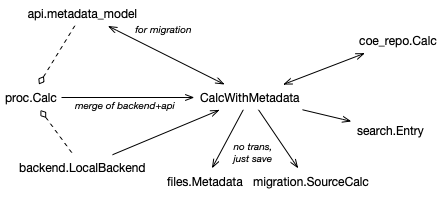
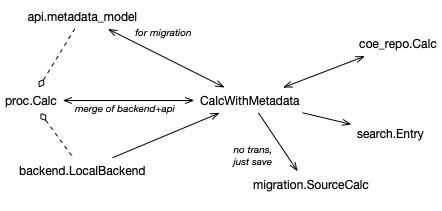
Updates to the documentation.

diff --git a/gui/src/components/Navigation.js b/gui/src/components/Navigation.js
@@ -24,7 +24,7 @@ import MenuIcon from '@material-ui/icons/Menu'
 import { Link, withRouter } from 'react-router-dom'
 import { compose } from 'recompose'
 import { MuiThemeProvider, IconButton, Checkbox, FormLabel, LinearProgress } from '@material-ui/core'
-import { genTheme, repoTheme, archiveTheme, encTheme, analyticsTheme } from '../config'
+import { genTheme, repoTheme, archiveTheme, encTheme, analyticsTheme, apiBase } from '../config'
 import classNames from 'classnames'
 import { HelpContext } from './help'
 import LoginLogout from './LoginLogout'
@@ -246,7 +246,7 @@ class Navigation extends React.Component {
             </ListItemIcon>
             <ListItemText inset primary="Profil"/>
           </MenuItem> */}
-          <MenuItem className={classes.menuItem} component={Link} to="/docs" selected={ pathname === '/docs' }>
+          <MenuItem className={classes.menuItem} target="docs" component={'a'} href={`${apiBase}/docs/index.html`} selected={ pathname === '/docs' }>
             <ListItemIcon>
               <DocumentationIcon />
             </ListItemIcon>

diff --git a/gui/src/pace.css b/gui/src/pace.css
@@ -5,23 +5,6 @@
   -webkit-user-select: none;
   -moz-user-select: none;
   user-select: none;
-
-  z-index: 2000;
-  position: fixed;
-  top: 0;
-  left: 0;
-  right: 0;
-  bottom: 0;
-  height: 100vh;
-  width: 100%;
-  background: #fff;
-  overflow: hidden;
-
-  background-image: url("nomad-cube.png");
-  background-repeat: no-repeat;
-  background-attachment: fixed;
-  background-position: center;
-  background-size: 64px 64px;
 }
 
 .pace-inactive {
@@ -29,7 +12,7 @@
 }
 
 .pace .pace-progress {
-  background: #673ab7;
+  background: #feb60d;
   position: fixed;
   z-index: 2000;
   top: 0;

diff --git a/gui/public/index.html b/gui/public/index.html
@@ -3,7 +3,7 @@
   <head>
     <script>
       window.paceOptions = {
-        restartOnPushState: false
+        restartOnPushState: true
       }
     </script>
     <script src="https://unpkg.com/pace-js@1.0.2/pace.min.js"></script>

diff --git a/docs/.static/css/custom.css b/docs/.static/css/custom.css
@@ -11,10 +11,10 @@ h1, h2, .rst-content .toctree-wrapper p.caption, h3, h4, h5, h6, legend {
     display: none
 }
 
-a {
+/* a {
     color: #607D8B !important
 }
 
 a:visited {
     color: #607D8B !important
-}
+} */

diff --git a/nomad/datamodel/__init__.py b/nomad/datamodel/__init__.py
@@ -36,8 +36,10 @@ classes. These are the implemented transformations:
     :members:
 
 The class :class:`CalcWithMetadata` only defines non domain specific metadata quantities
-about ids, user metadata, etc. To define domain specific quantities the classes
-:class:`Domain` and :class:`DomainQuantity` must be used.
+about ids, user metadata, etc. To define domain specific quantities :class:`CalcWithMetadata`
+must be subclassed. The classes
+:class:`Domain` and :class:`DomainQuantity` can be used to further define domain specific
+quantities.
 
 .. autoclass:: nomad.datamodel.Domain
     :members:
@@ -47,7 +49,7 @@ about ids, user metadata, etc. To define domain specific quantities the classes
 
 import sys
 
-from nomad.datamodel.base import UploadWithMetadata, CalcWithMetadata, Domain
+from nomad.datamodel.base import UploadWithMetadata, CalcWithMetadata, Domain, DomainQuantity
 from nomad.datamodel import ems, dft
 from nomad.datamodel.dft import DFTCalcWithMetadata
 from nomad.datamodel.ems import EMSEntryWithMetadata

diff --git a/nomad/files.py b/nomad/files.py
@@ -23,12 +23,9 @@ almost readonly (beside metadata) storage.
 
 .. code-block:: sh
 
-    fs/staging/<upload>/metadata/<calc>.json
-                       /raw/**
-                       /archive/<calc>.hdf5
-                       /.frozen
-    fs/public/<upload>/metadata.json.gz
-                      /raw-public.plain.zip
+    fs/staging/<upload>/raw/**
+                       /archive/<calc>.json
+    fs/public/<upload>/raw-public.plain.zip
                       /raw-restricted.plain.zip
                       /archive-public.json.zip
                       /archive-restricted.json.zip

diff --git a/docs/introduction.md b/docs/introduction.md
@@ -7,6 +7,9 @@ The original NOMAD software, developed by the
 calculations in a single central infrastructure instances that offers a variety
 of services (*repository*, *archive*, *encyclopedia*, *analytics*, *visualization*).
 
+.. figure:: nomad.png
+   :alt: nomad's overall structure
+
 This is the documentation of **nomad@FAIRDI**, the Open-Source continuation of the
 original NOMAD-coe software that reconciles the original code base,
 integrate it's services, allows 3rd parties to run individual and federated instance of
@@ -169,14 +172,18 @@ belong to one *material* based on the simulated system.
 - The `uploader` is the user that provided the upload. There is always one immutable `uploader`
 - Currently, uploads can be provided as `.zip` or `.tar.gz` files.
 
-### Calculations
-- A calculation has a unique `calc_id` that is based on the upload's id and the `mainfile`
+### Entries (Calculations, Code runs)
+- There are confusing names. Internally, in the nomad source code, the term `calc` is used.
+An entry represents a single set of input/output used and produces by an individual run of a
+DFT code. If nomad is applied to other domains, i.e. experimental material science, entries might represent
+experiments or other entities.
+- An entry (calculation) has a unique `calc_id` that is based on the upload's id and the `mainfile`
 - The `mainfile` is a upload relative path to the main output file.
 - Each calculation, when published, gets a unique `pid`. Pids are ascending intergers. For
 each `pid` a shorter `handle` is created. Handles can be registered with a handle system,
 e.g. the central nomad installation at MPCDF is registered at a MPCDF/GWDW handle system.
 - The `calc_hash` is computed from the main and other parsed raw files.
-- Calculation data comprises *user metadata* (comments, references, datasets, coauthors),
+- Entry data comprises *user metadata* (comments, references, datasets, coauthors),
 *calculation metadata* (code, version, system and symmetry, used DFT method, etc.),
 the *archive data* (a hierarchy of all parsed quantities), and the uploaded *raw files*.
 
@@ -192,23 +199,27 @@ the *archive data* (a hierarchy of all parsed quantities), and the uploaded *raw
 ### Data
 We distinguish various forms of calculation data:
 - raw data: The raw files provided by nomad users
+- (repository) metadata: All data necessary to search and inspect nomad entries.
 - archive data: The data extracted from raw files by nomad parsers and normalizers.
 This data is represented in the *meta-info* format.
 - materials data: Aggregated information about calculations that simulated the *same* material.
+
+.. figure:: datamodel_dataflow.png
+   :alt: nomad's data flow
 
 ### Metadata
 Metadata refers to those pieces of data, those quantities/attributes that we use
 to represent, identify, and index uploads and calculations in the API, search, GUI, etc.
 There are three catergories of metadata:
-- ids: attributes that are necessary to uniquely identify entities. See also :ref:`id-reference-label`.
-- user metadata: attributes provided by the user, e.g. comments, references, coauthors, datasets, etc.
-- calculation metadata: metadata parsed from raw files that describe calculations on a high level, e.g. code name, basis set, system type, etc.
+- entry metadata: attributes that are necessary to uniquely identify entities (see also :ref:`id-reference-label`), that describe the upload, processing, etc. This data is derived by the nomad infrastructure.
+- user metadata: attributes provided by the user, e.g. comments, references, coauthors, datasets, etc. This data is provided by the user.
+- domain metadata: metadata parsed from raw files that describe calculations on a high level, e.g. code name, basis set, system type, etc. This data is derived from the uploaded data.
 
 Those sets of metadata along with the actual raw and archive data are often transformed,
 passed, stored, etc. by the various nomad modules.
 
-.. figure:: datamodel_dataflow.png
-   :alt: nomad's data flow
+.. figure:: datamodel_metadataflow.png
+   :alt: nomad's metadata flow
 
 ### Implementation
 The different entities have often multiple implementations for different storage systems.

diff --git a/docs/parser_tutorial.md b/docs/parser_tutorial.md
@@ -268,7 +268,7 @@ Sometime a code uses a unit that is not fixed, but might be defined in the input
 other part. In this case you can use
 
 ```python
-    nomadcore.unit_conversion.unit_conversion.register_userdefined_quantity(quantity, units, value=1)
+nomadcore.unit_conversion.unit_conversion.register_userdefined_quantity(quantity, units, value=1)
 ```
 
 from python-common. With it you can (for example in the adHoc callback of a SimpleMatcher)
@@ -276,7 +276,7 @@ define the usint usrMyCodeLength (user defined units should always start with "u
 just letters) to be angstrom with
 
 ```python
-    register_userdefined_quantity("usrMyCodeLength", "angstrom")
+register_userdefined_quantity("usrMyCodeLength", "angstrom")
 ```
 
 this call *needs* to be done before any use of that unit. The unit can then be used just
@@ -300,8 +300,8 @@ The simplest way to achieve this is to define methods called onClose and then th
 For example
 
 ```python
-    def onClose_section_scf_iteration(self, backend, gIndex, section):
-        logging.getLogger("nomadcore.parsing").info("YYYY bla gIndex %d %s", gIndex, section.simpleValues)
+def onClose_section_scf_iteration(self, backend, gIndex, section):
+   logging.getLogger("nomadcore.parsing").info("YYYY bla gIndex %d %s", gIndex, section.simpleValues)
 ```
 
 defines a trigger called every time an scf iteration section is closed.
